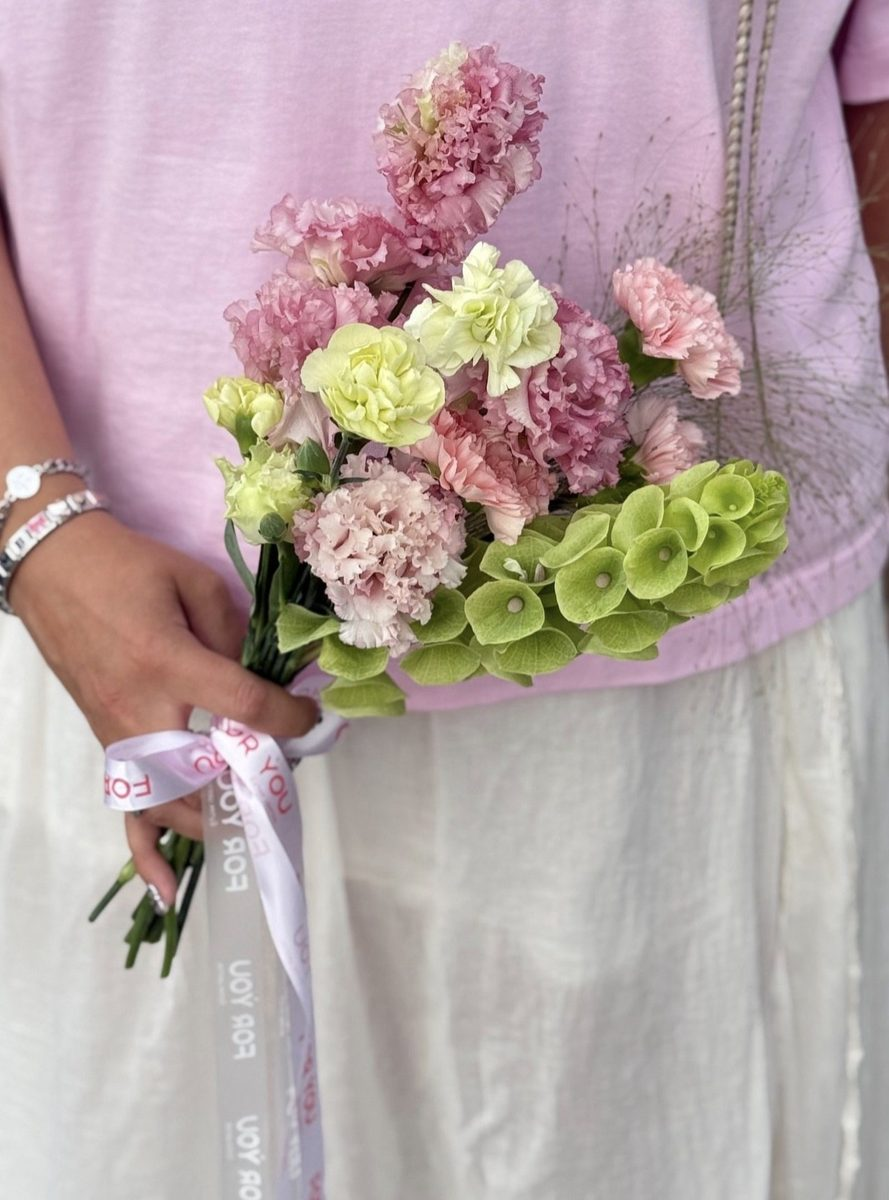
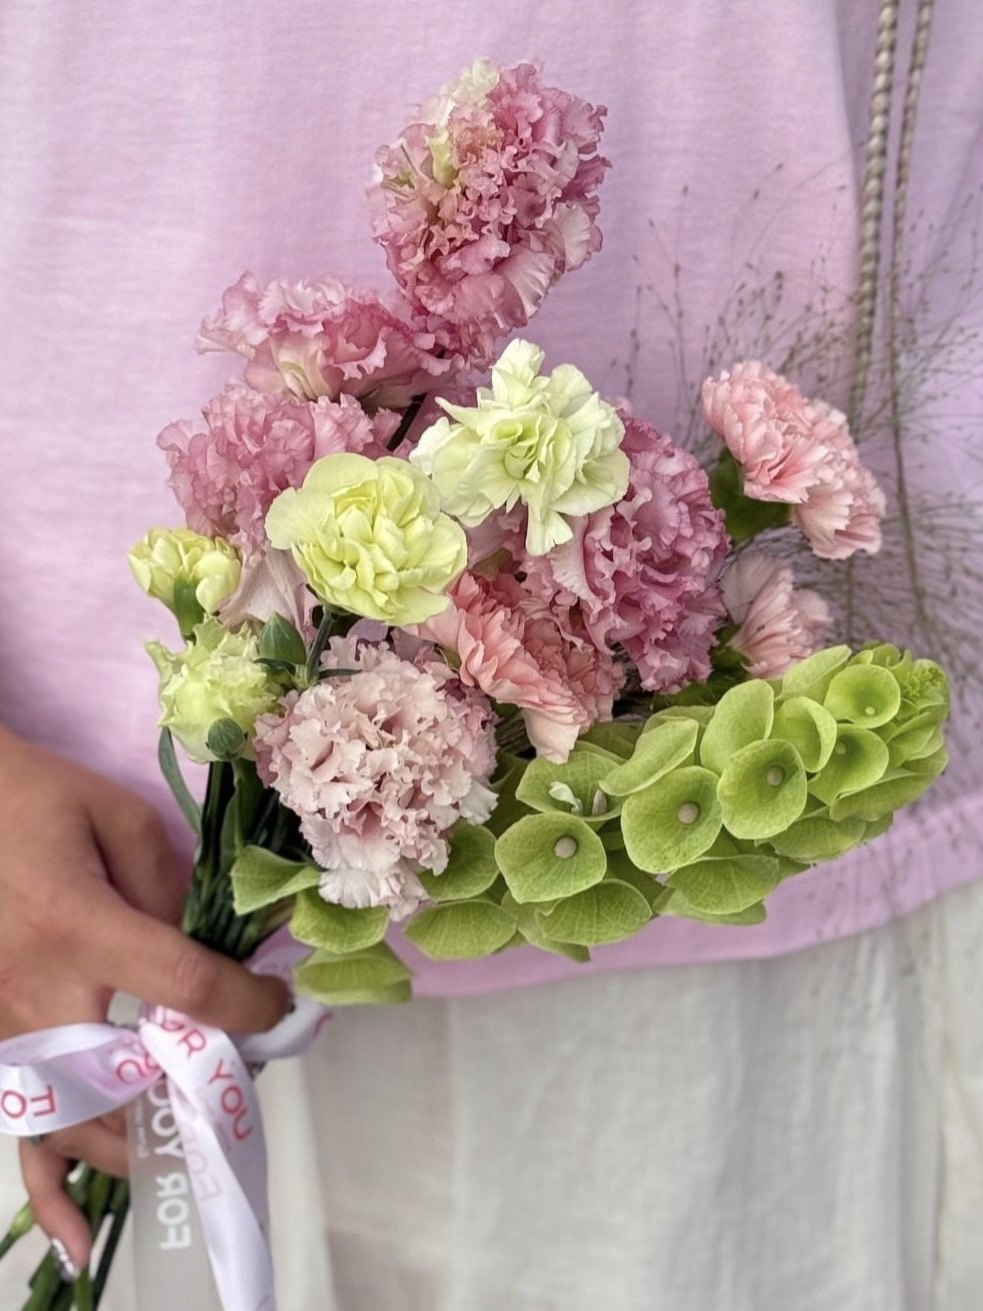
Первый экран, кадры букетов, цена «Снежного шара»
Первый экран главной — новый кадр: без татуировки и без выреза,
пропорции прежние. Формат 1600×990 сохранён.

«Жемчужный» пересобран из полного оригинала: появился отступ сверху,
внизу видны бутоньерка и нить бусин, ценник «7 500 ru» из кадра ушёл.
Раньше букет упирался в верхний край — это и было не по формату.

«Розовый сад» — кадр ближе.

«Снежный шар» — 3 000 ₽, был единственным без цены.

«Осенний бархат» — из состава и описания убрано кашпо: непонятно,
входит ли ваза в комплект.

diff --git a/data.js b/data.js
@@ -180,8 +180,8 @@ var PRODUCTS = [
    целиком: другие цветы, другие фото.                    */
 {id:'sezon-osennyaya', cat:'sezon', name:'Осенний бархат', price:5500,
  img:'img/katalog/sezon-osennyaya.jpg',
- comp:['Хризантема','Роза пионовидная','Гвоздика','Леукадендрон','Фирменное кашпо FOR YOU'],
- lead:'Осенняя композиция в фирменном кашпо: пыльная роза, малиновая хризантема и тёмный леукадендрон. Уже в кашпо — вазу искать не нужно.'},
+ comp:['Хризантема','Роза пионовидная','Гвоздика','Леукадендрон'],
+ lead:'Осенний букет: пыльная роза, малиновая хризантема и тёмный леукадендрон. Глубокие ягодные оттенки, которые бывают только в эту пору.'},
 {id:'sezon-georgin', cat:'sezon', name:'Георгин', price:380, unit:'шт',
  img:'img/katalog/sezon-georgini.jpg',
  imgs:['img/katalog/sezon-georgini-2.jpg'],
@@ -265,7 +265,7 @@ var PRODUCTS = [
  comp:['Роза кустовая','Маттиола','Львиный зев','Орнитогалум','Амарант']},
 {id:'sv-belo-zelenyi', cat:'svadba', name:'Мятное утро', price:8000, img:'img/svadba/b-belo-zelenyi.jpg',
  comp:['Гербера','Львиный зев','Эустома','Орнитогалум','Амарант']},
-{id:'sv-snezhnyi-shar', cat:'svadba', name:'Снежный шар', ask:true, img:'img/svadba/b-gvozdika-shar.jpg',
+{id:'sv-snezhnyi-shar', cat:'svadba', name:'Снежный шар', price:3000, img:'img/svadba/b-gvozdika-shar.jpg',
  comp:['Гвоздика','Декоративные бусины'],
  lead:'Плотный шар из белой гвоздики на жемчужной нити — форма, которая не растреплется за день и хорошо читается на фото.'},
 {id:'sv-dvoinoi', cat:'svadba', name:'Двойное счастье', price:8000, img:'img/svadba/b-dvoinoi.jpg',
